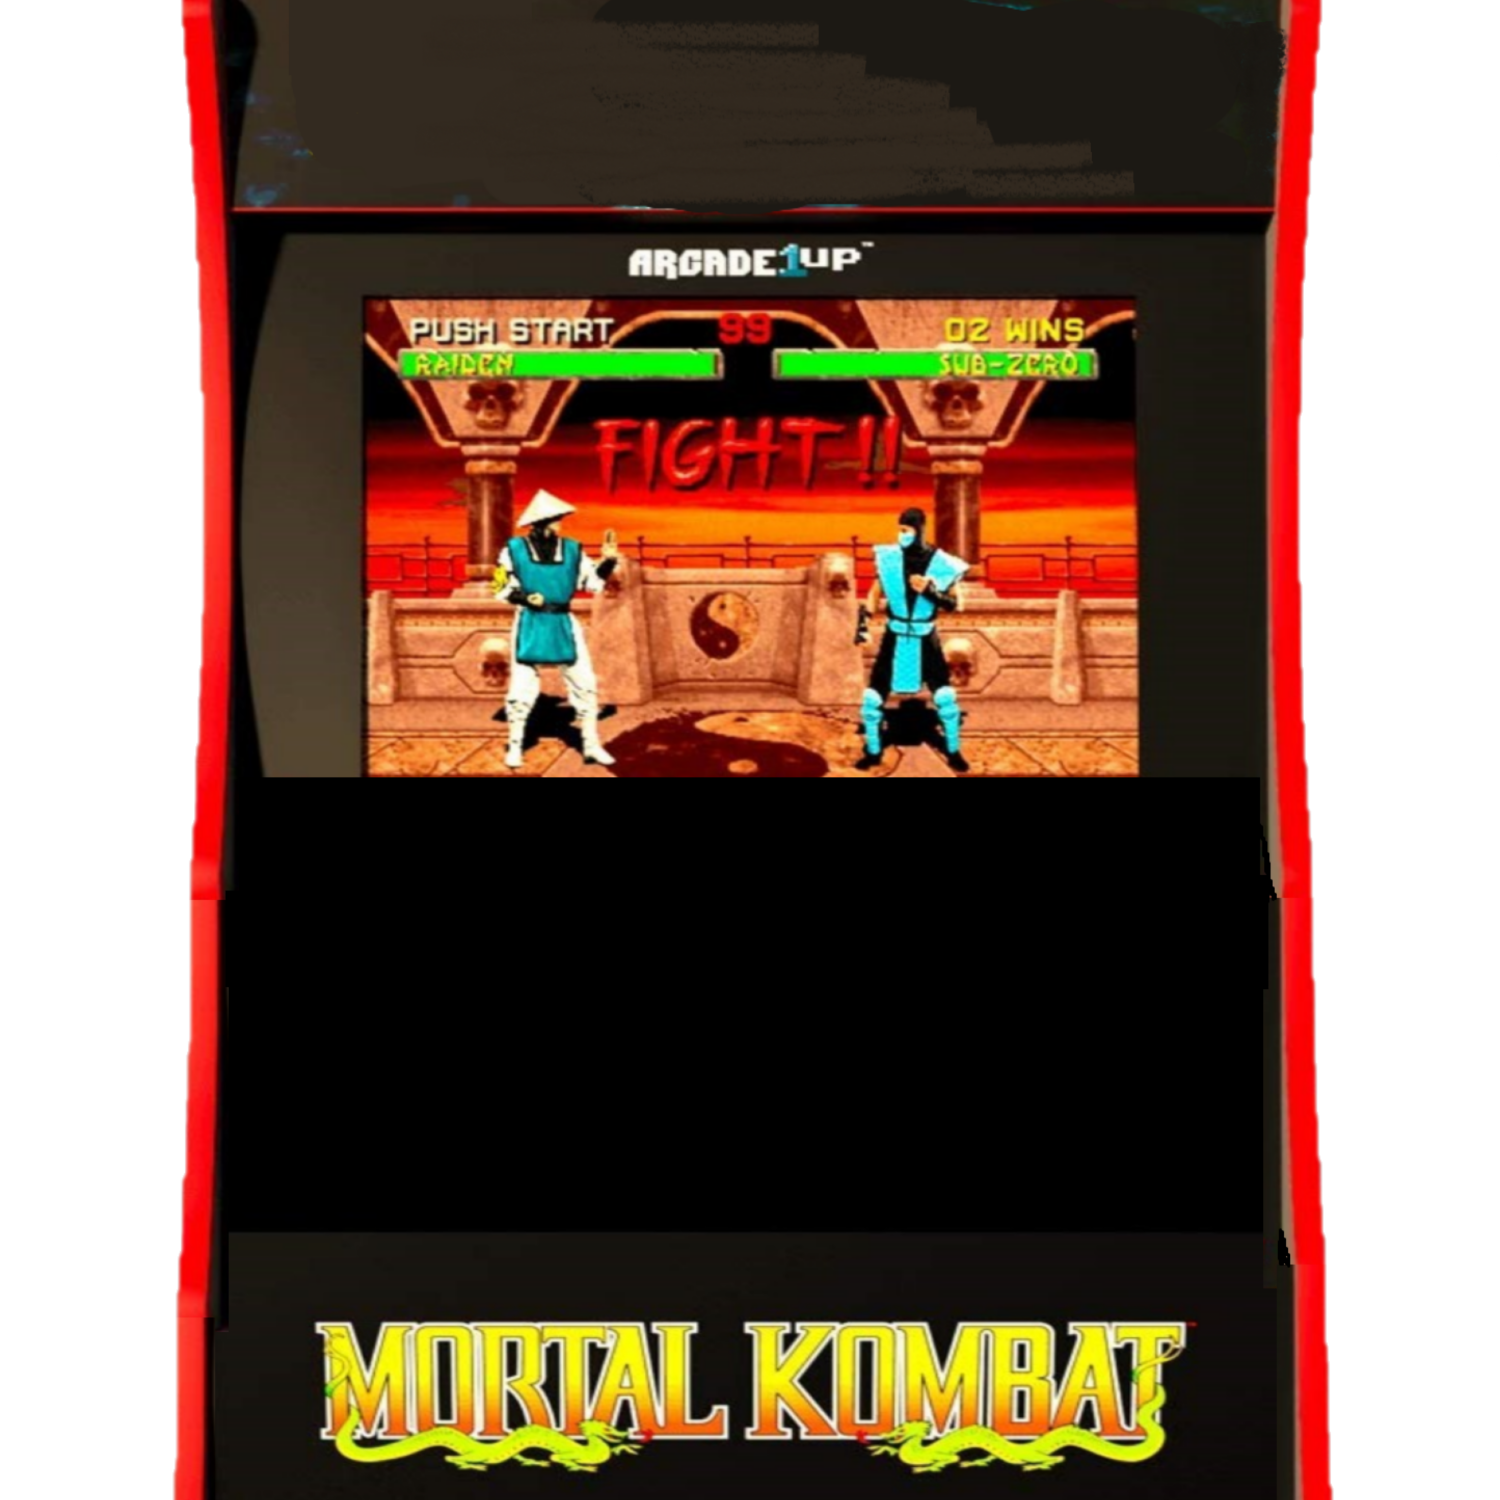
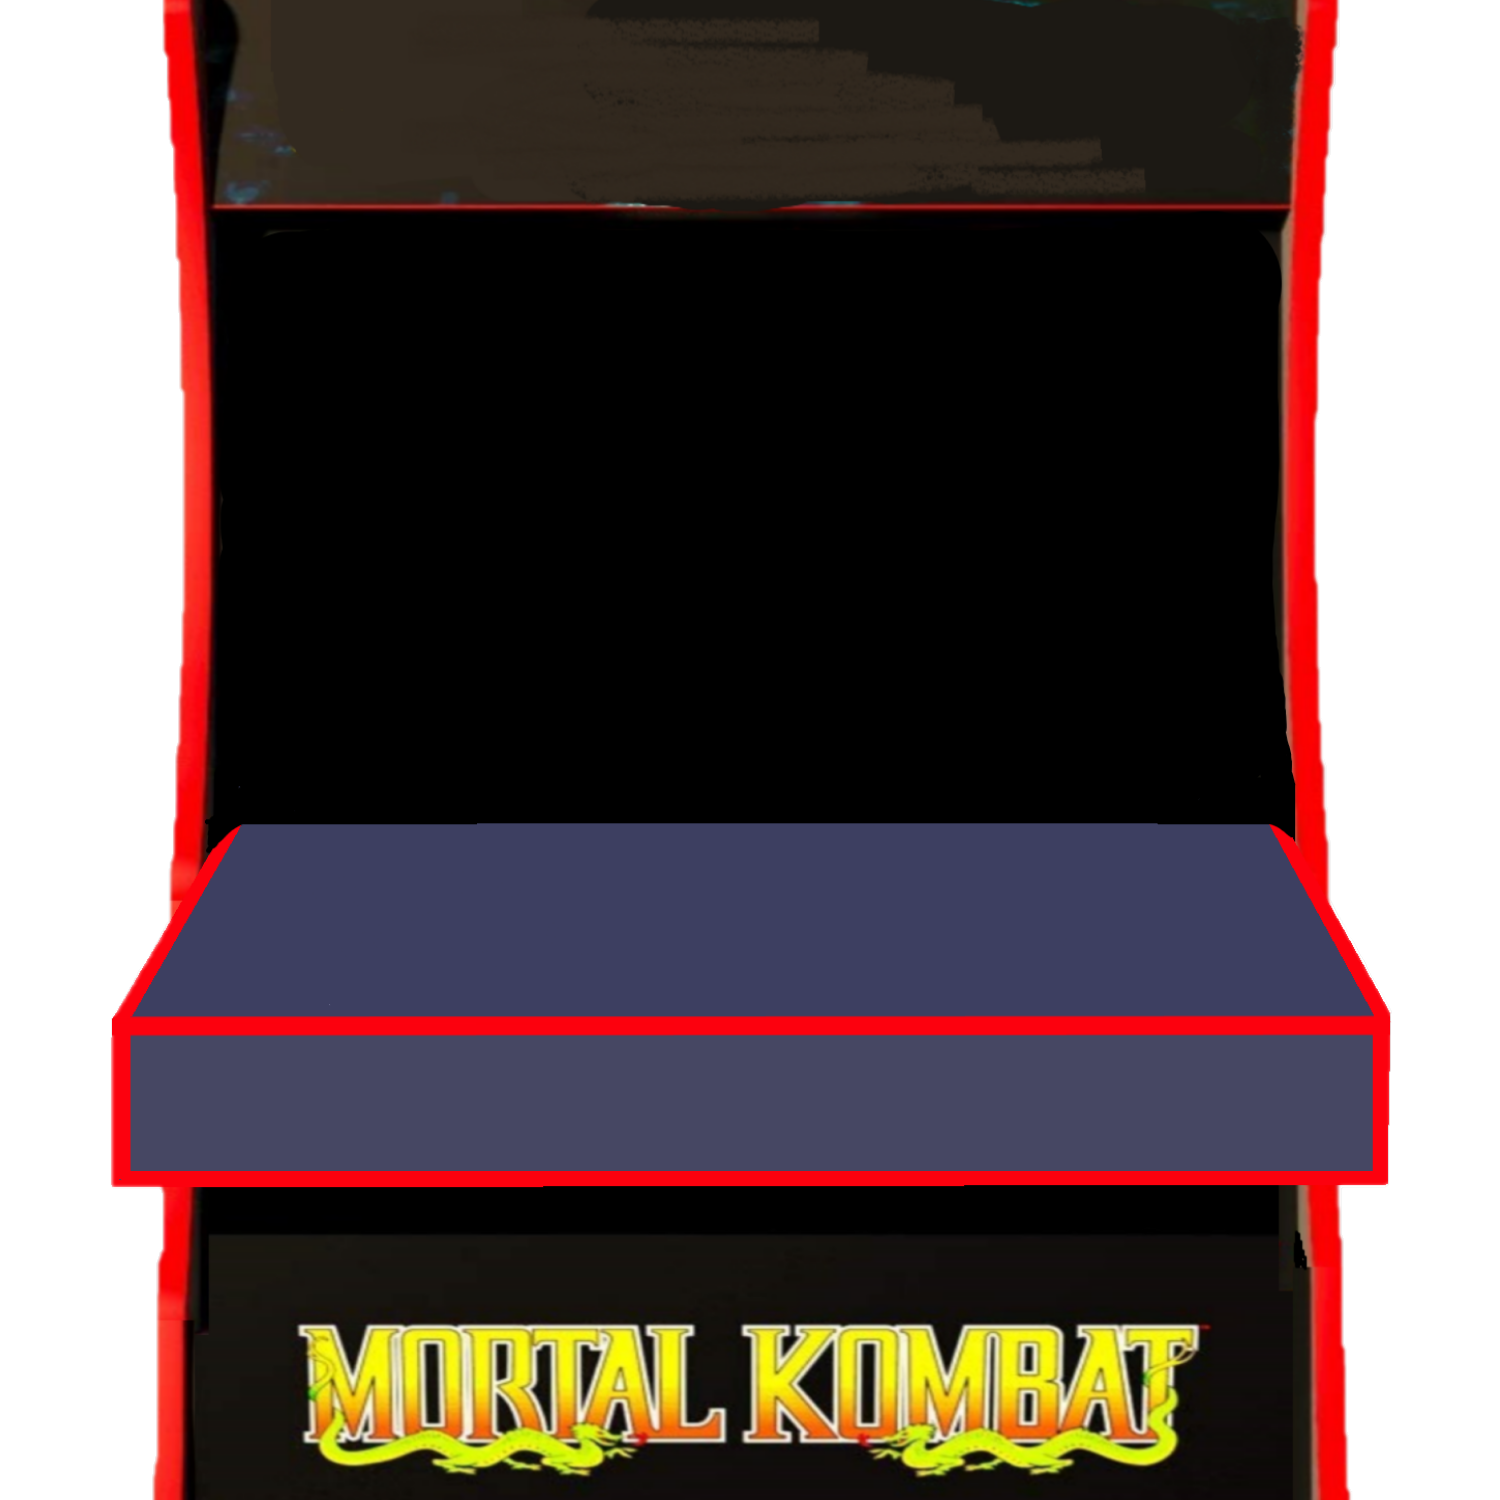
Arkad + panel

diff --git a/styles.css b/styles.css
@@ -241,7 +241,7 @@ footer{
 z-index: -300;
 width: 3000px;
 margin-left: -1023px;
-margin-top: -40px;
+margin-top: -95px;
 
 }
 
